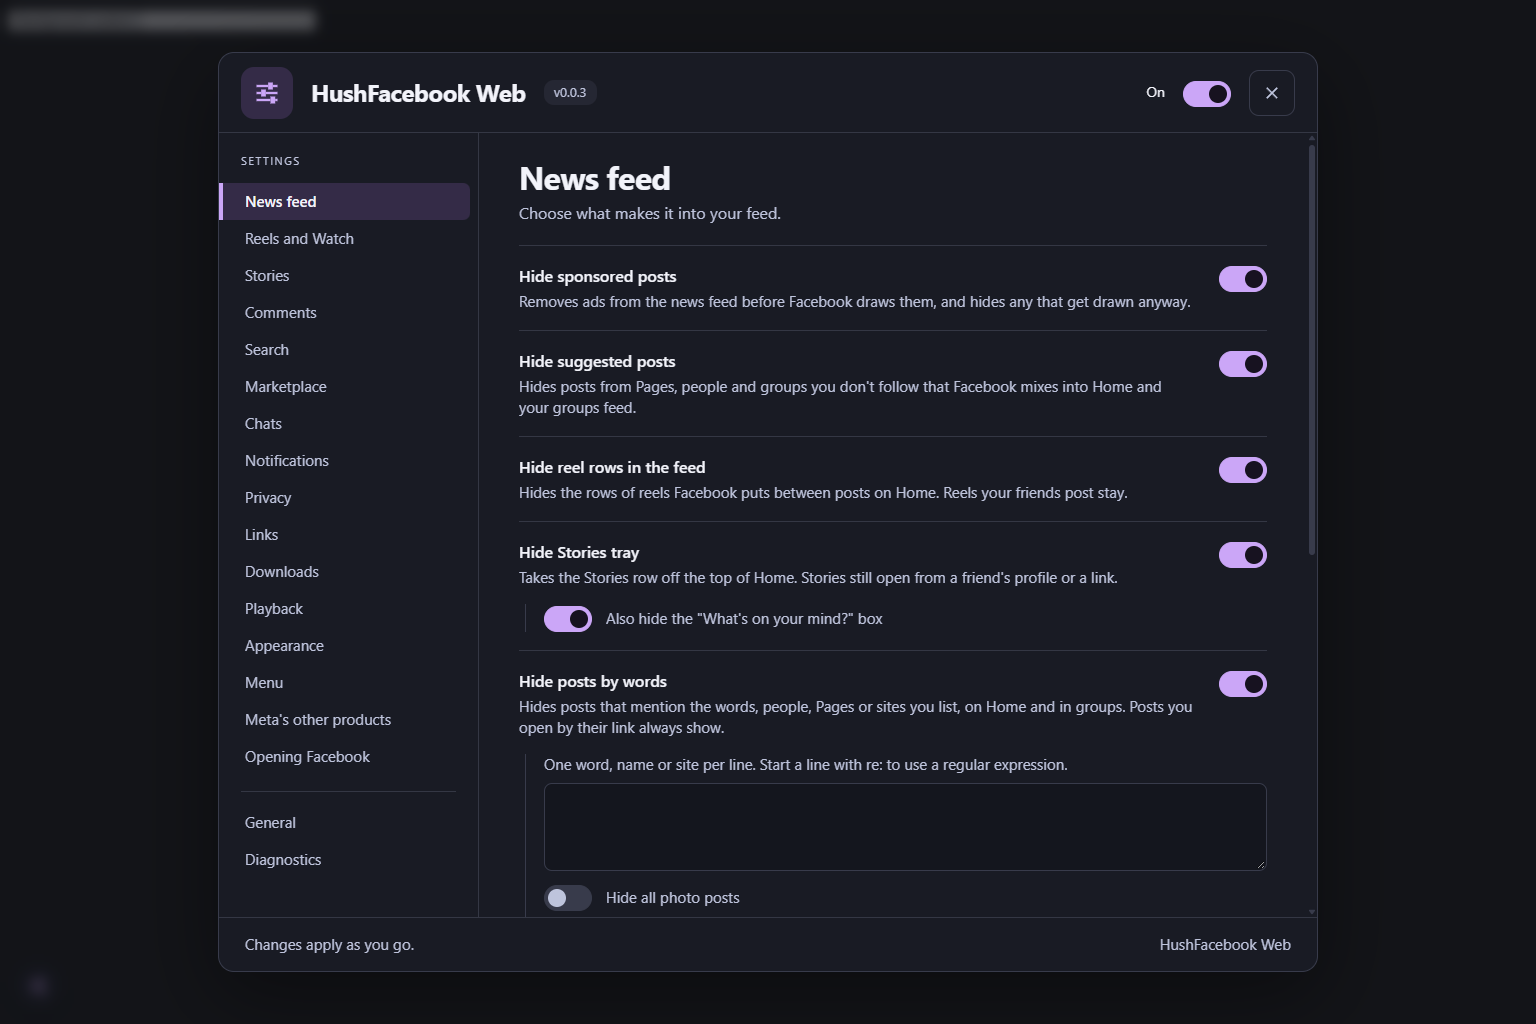
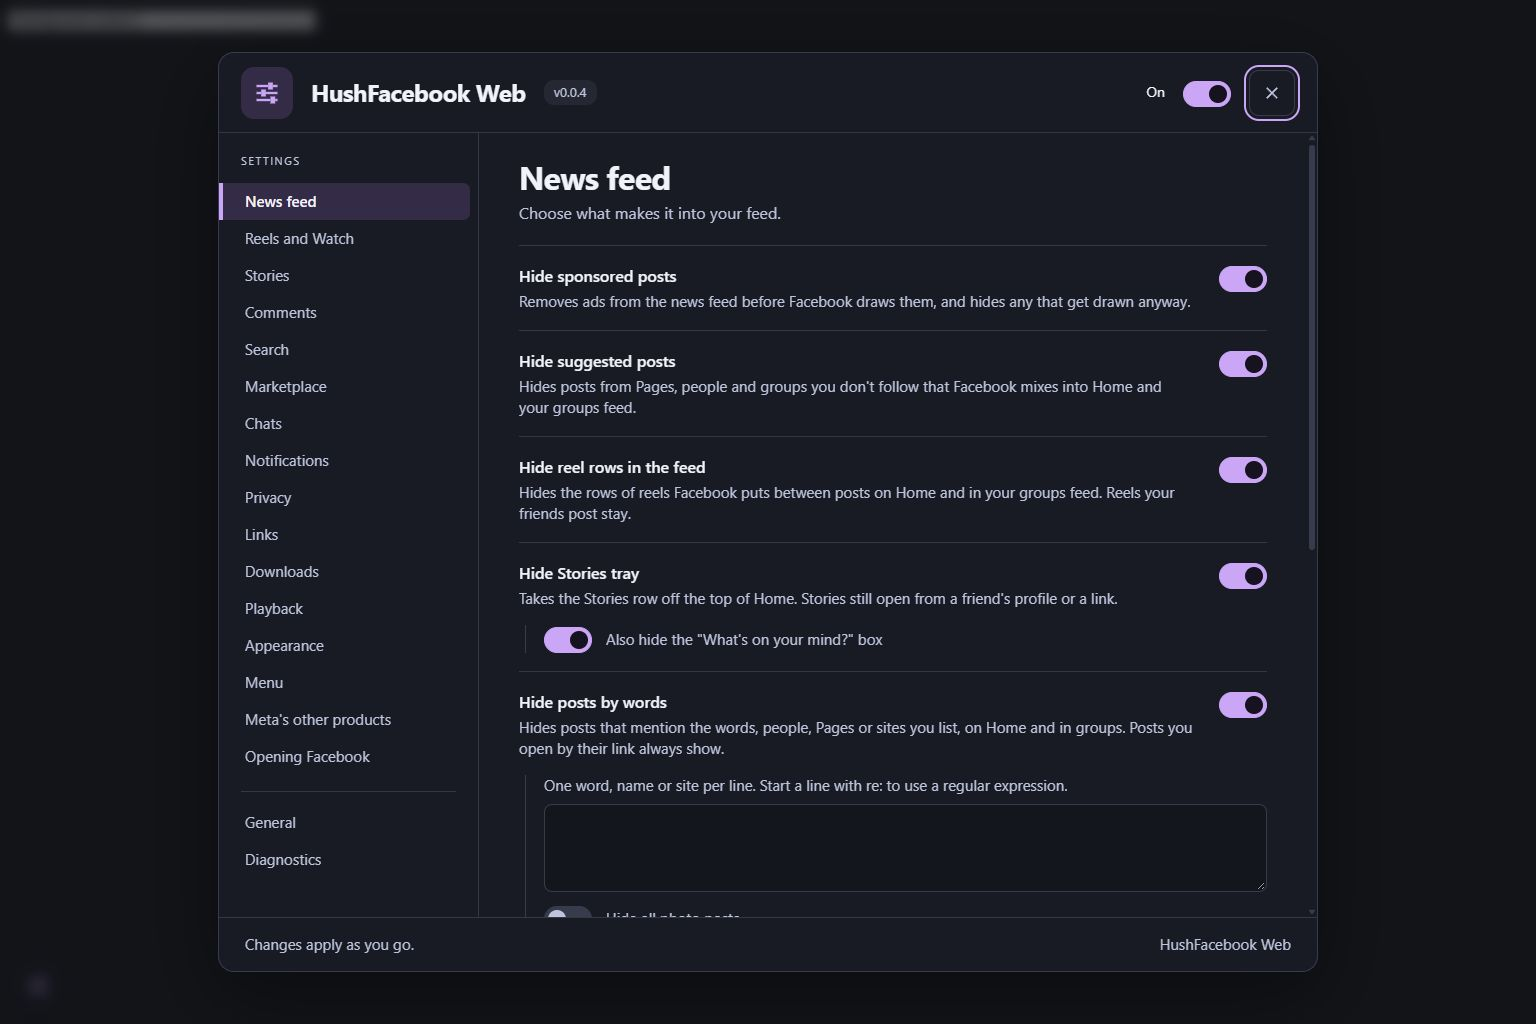
fix: filter captured reel rows before rendering

diff --git a/tests/feed-cleanup.test.js b/tests/feed-cleanup.test.js
@@ -1,5 +1,5 @@
 // The page checks of Hide suggested posts and Hide reel rows, against posts shaped like the
-// live 2026-10-11 Home feed (structure from the harness's anatomy probe).
+// live 2026-10-11 Home feed, plus the data check against a captured reel-row response.
 
 import assert from 'node:assert/strict';
 import { afterEach, test } from 'node:test';
@@ -8,9 +8,12 @@ import { createDiagnostics } from '../src/core/diagnostics.js';
 import { createHider, MARK } from '../src/core/dom/hide.js';
 import { watchPostChecks } from '../src/core/dom/post-checks.js';
 import { createPostTracker } from '../src/core/dom/posts.js';
+import { installNetworkHooks } from '../src/core/net/hooks.js';
+import { transformDocumentLine } from '../src/core/net/payload.js';
 import { parseRoute } from '../src/core/route.js';
 import hideReelsInFeed, { reelRowOf } from '../src/features/feed/hide-reels-in-feed.js';
 import hideSuggestedPosts, { suggestionButton } from '../src/features/feed/hide-suggested-posts.js';
+import { fixtureLines, parseLine } from './helpers/fixtures.js';
 
 const windows = [];
 afterEach(async () => {
@@ -160,4 +163,80 @@ test('Hide reel rows hides rows on Home as they arrive, and brings them back whe
   on = false;
   for (const fn of subscribers) fn({});
   assert.equal(hider.isHidden(row), false);
+});
+
+function reelDataHook(enabled = () => true) {
+  const win = { JSON: { parse: JSON.parse }, location: { href: 'https://www.facebook.com/' } };
+  const net = installNetworkHooks({ win, log: { error() {}, warn() {}, info() {}, debug() {} } });
+  const rules = [];
+  const diagnostics = createDiagnostics();
+  hideReelsInFeed.setup({
+    net: { transformResponses: (rule) => { rules.push(rule); net.transformResponses(rule); } },
+    router: { current: () => parseRoute(win.location.href) }, diagnostics, enabled,
+  });
+  return { win, rules, diagnostics };
+}
+
+test('the captured Home reel unit loses only its six showcase items before the page draws', async () => {
+  // Inline Relay response from run12, 2026-10-11. The saved HTML has no row DOM.
+  const [line] = await fixtureLines('reel-row.jsonl');
+  const captured = parseLine(line);
+  assert.equal(captured.data.node.__typename, 'ShowcaseFeedUnit');
+  assert.equal(captured.data.node.showcase_story_type, 'SHOWCASE_SHORT_VIDEO');
+  assert.equal(captured.data.node.showcase_item.length, 6);
+  assert.ok(captured.data.node.showcase_item.every((item) => item.attachment.__typename === 'ShowcaseShortVideoAttachment'));
+  const expected = structuredClone(captured);
+  expected.data.node.showcase_item = [];
+  const { win, diagnostics } = reelDataHook();
+  const out = win.JSON.parse(line);
+  assert.deepEqual(out, expected, 'all response fields outside showcase_item stay intact');
+  assert.equal(diagnostics.decisions().filter((decision) => decision.rule === 'Reels').length, 1);
+  assert.deepEqual(win.JSON.parse(JSON.stringify(out)), out, 'an already empty row stays empty');
+  assert.equal(diagnostics.decisions().filter((decision) => decision.rule === 'Reels').length, 1);
+});
+
+test('the captured reel unit is filtered only in the feeds and while its switch is on', async () => {
+  const [line] = await fixtureLines('reel-row.jsonl');
+  const captured = parseLine(line);
+  let on = true;
+  const { win, rules } = reelDataHook(() => on);
+  assert.equal(rules.length, 1, 'the data rule is registered without a DOM or hider');
+  for (const [href, hidden] of [
+    ['https://www.facebook.com/', true],
+    ['https://www.facebook.com/groups/feed/', true],
+    ['https://www.facebook.com/search/top/?q=reels', false],
+    ['https://www.facebook.com/somepage/', false],
+  ]) {
+    win.location.href = href;
+    const expected = structuredClone(captured);
+    if (hidden) expected.data.node.showcase_item = [];
+    assert.deepEqual(win.JSON.parse(line), expected, href);
+  }
+  for (const [friendlyName, hidden] of [
+    ['CometNewsFeedPaginationQuery', true],
+    ['GroupsCometCrossGroupFeedPaginationQuery', true],
+    ['ProfileCometTimelineFeedRefetchQuery', false],
+    ['SearchCometResultsPaginatedResultsQuery', false],
+  ]) {
+    const expected = structuredClone(captured);
+    if (hidden) expected.data.node.showcase_item = [];
+    assert.deepEqual(parseLine(transformDocumentLine(line, rules, { transport: 'fetch', path: '/api/graphql/', friendlyName })), expected, friendlyName);
+  }
+  win.location.href = 'https://www.facebook.com/';
+  on = false;
+  assert.deepEqual(win.JSON.parse(line), captured, 'a disabled switch leaves the real unit intact');
+});
+
+test('friends reel posts and other Showcase units stay intact in the data', async () => {
+  const [line] = await fixtureLines('reel-row.jsonl');
+  const captured = parseLine(line).data.node;
+  const friend = {
+    __typename: 'Story', __isFeedUnit: 'Story', id: 'friend-reel',
+    attachments: [structuredClone(captured.showcase_item[0].attachment)],
+  };
+  const otherShowcase = { ...structuredClone(captured), showcase_story_type: 'OTHER' };
+  const wrongType = { ...structuredClone(captured), __typename: 'Story', __isFeedUnit: 'Story' };
+  const doc = { data: { edges: [{ cursor: 'friend', node: friend }, { cursor: 'other', node: otherShowcase }, { cursor: 'wrong', node: wrongType }] } };
+  const { win } = reelDataHook();
+  assert.deepEqual(win.JSON.parse(JSON.stringify(doc)), doc);
 });

diff --git a/src/features/feed/hide-reels-in-feed.js b/src/features/feed/hide-reels-in-feed.js
@@ -1,12 +1,14 @@
-// Rows of reels Facebook puts between posts on Home ("Reels and short videos"). A single reel
-// a friend posted is a post like any other and stays.
+// Rows of reels Facebook puts between posts ("Reels and short videos"). The data check
+// empties captured ShowcaseFeedUnit rows with SHOWCASE_SHORT_VIDEO on Home and the groups
+// feed. A single reel a friend posted is a Story and stays.
 //
 // A row is told apart without reading its heading, so it works in any language: it sits in
 // the feed's list beside the posts, it isn't a post itself, and it links to at least two
-// different reels. The Stories tray links to reels too, so it never counts. The test account
-// hasn't been shown a reel row yet (2026-10-11), so this follows FB Feed Filter 0.1.0.17's
-// reel module check (content.js scanReelModules, MIT), which also asks for two reel links.
+// different reels. The Stories tray links to reels too, so it never counts. The captured row
+// has no page markup yet, so this follows FB Feed Filter 0.1.0.17's reel module check
+// (content.js scanReelModules, MIT), which also asks for two reel links.
 
+import { adRule } from './ad-markers.js';
 import { CANDIDATE_SELECTOR } from '../../core/dom/posts.js';
 
 const REEL_LINK = 'a[href*="/reel/"]';
@@ -36,10 +38,18 @@ export default {
   section: 'feed',
   android: 'Hide Reels in the feed',
   title: 'Hide reel rows in the feed',
-  description: 'Hides the rows of reels Facebook puts between posts on Home. Reels your friends post stay.',
+  description: 'Hides the rows of reels Facebook puts between posts on Home and in your groups feed. Reels your friends post stay.',
   default: false,
 
-  setup({ doc, win, router, hider, log, settings, diagnostics, enabled }) {
+  setup({ net, doc, win, router, hider, log, settings, diagnostics, enabled }) {
+    let dataHidden = 0;
+    if (net) {
+      net.transformResponses(adRule('hideReelsInFeed', enabled, (fired) => {
+        dataHidden += fired.length;
+        diagnostics?.changed();
+      }, { route: () => router?.current(), diagnostics, reason: 'Reels' }));
+    }
+    diagnostics?.add('Reel rows taken out of the data', () => (net ? String(dataHidden) : "Off: the script can't reach the page's data"));
     if (!hider || !doc) return;
     let hidden = 0;
     let queued = false;

diff --git a/src/features/feed/ad-markers.js b/src/features/feed/ad-markers.js
@@ -201,6 +201,19 @@ export const AD_MARKERS = [
     empty: { instream_video_ad_breaks: [], post_roll_ad_break: null },
   },
   {
+    id: 'reels_showcase',
+    feature: 'hideReelsInFeed',
+    surface: 'news feed and groups feed (rows of reels)',
+    seen: '2026-10-11: a Home inline Relay response carries a ShowcaseFeedUnit with SHOWCASE_SHORT_VIDEO and six ShowcaseShortVideoAttachment items; its page markup has not been captured',
+    text: ['"ShowcaseFeedUnit"'],
+    scope: FEEDS,
+    kind: 'object',
+    match: (value) => value.__typename === 'ShowcaseFeedUnit' && value.showcase_story_type === 'SHOWCASE_SHORT_VIDEO'
+      && Array.isArray(value.showcase_item) && value.showcase_item.length > 0,
+    action: 'empty-list',
+    empty: { showcase_item: [] },
+  },
+  {
     id: 'follow_button',
     feature: 'hideSuggestedPosts',
     surface: "news feed and groups feed (Pages and people you don't follow)",

diff --git a/tests/ad-markers.test.js b/tests/ad-markers.test.js
@@ -76,6 +76,10 @@ const SAMPLES = {
     instream_extra_config: { instream_halo_delay_time_seconds: 16 },
     instream_video_ad_breaks_comet: { mid_rolls: [{ index: 0, instream_placement: 'MID_ROLL', time_offset_in_ms: 60000 }], pre_roll: null },
   }),
+  reels_showcase: () => ({
+    __typename: 'ShowcaseFeedUnit', showcase_story_type: 'SHOWCASE_SHORT_VIDEO',
+    showcase_item: [{ id: 'reel-1', attachment: { __typename: 'ShowcaseShortVideoAttachment' } }],
+  }),
   follow_button: () => titled('suggested', followTitle),
   group_join: () => titled('suggested', joinTitle),
   genai_label: () => labeled('ai'),

diff --git a/docs/feature-parity.md b/docs/feature-parity.md
@@ -27,7 +27,7 @@ What the status words mean:
 | Hide sponsored Marketplace listings | Tested | Takes ad cards out of the Marketplace feed before Facebook draws them, and the listings around them stay put. |
 | Hide suggested and promoted posts | Tested | Takes posts from Pages, people and groups you don't follow out of Home and your groups feed before Facebook draws them. Any that get drawn anyway, or every one in content mode, are hidden by the Follow or Join button after the author's name (English for now). Search, a Page's own posts and groups you browse are left alone. People you may know rows are next. |
 | Hide suggested stories | Planned | Stories from people and Pages you don't follow. |
-| Hide Reels in the feed | Written | Hides rows of reels between posts on Home, told apart by their links rather than their heading, so any language works. A reel a friend posts stays. The test account hasn't been shown a reel row yet. |
+| Hide Reels in the feed | Written | Empties the items in a captured ShowcaseFeedUnit reel row on Home and the groups feed, preserving the edge and cursor. Friends' ordinary reel posts and other showcase units stay. The page-side fallback on Home uses reel links rather than the heading. The saved response has no rendered row in its HTML, so live acceptance is still open. |
 | Hide Stories tray | Tested | Takes the Stories row off the top of Home, and the "What's on your mind?" box too unless you keep it. The posts move up into the space. Both are found without reading any English, so it works in other languages and in content mode. |
 | Hide post prompts | Planned | "Are you interested in this post?" strips and follow suggestions on posts. |
 | Hide affiliate product links | Planned | Shopping cards on reels, posts and comments. |

diff --git a/CHANGELOG.md b/CHANGELOG.md
@@ -3,6 +3,7 @@
 ## Unreleased
 
 * v0.0.4 adds an experimental Block Instant Games ads switch. It uses the game's no-ad response, stays off by default and follows changes from Facebook through manager storage. Games that require an ad for a reward won't give that reward. Live game acceptance is still open.
+* Hide reel rows in the feed now removes the items from a captured reel row in Facebook's data before it's drawn. Friends' reel posts and other kinds of showcase stay intact. The page-side fallback still needs a live row to check.
 * The 0.0.3 development build gives all 18 settings sections a new dark layout with a lavender accent, clearer headings and flat rows. Long labels and options wrap in narrow windows, and the power and close buttons stay within reach. Settings open as a native modal, so the page behind them stays inactive. Closing returns focus to the control that opened the panel, and Reset's Undo stays reachable inside it.
 * Download and Pop out now match the settings panel. They also follow the photo or video when the window resizes, without waiting for the pointer to move.
 * Keep your place in the feed no longer leaves Home stuck on Facebook's loading screen in Tampermonkey. It showed up with Following feed on, since Home then opens on Feeds. The script asked Facebook for its feed refresh limits before the page had a value those limits read as they load, so they failed, and the feed went down with them. Now the script waits for Facebook's own code to load the limits and holds them right after, without ever asking for them. Tried live in Tampermonkey with twenty switches on: Home and Feeds load and scroll, and the limits read back as held. Turned on during a visit, the switch takes effect from the next page load.
